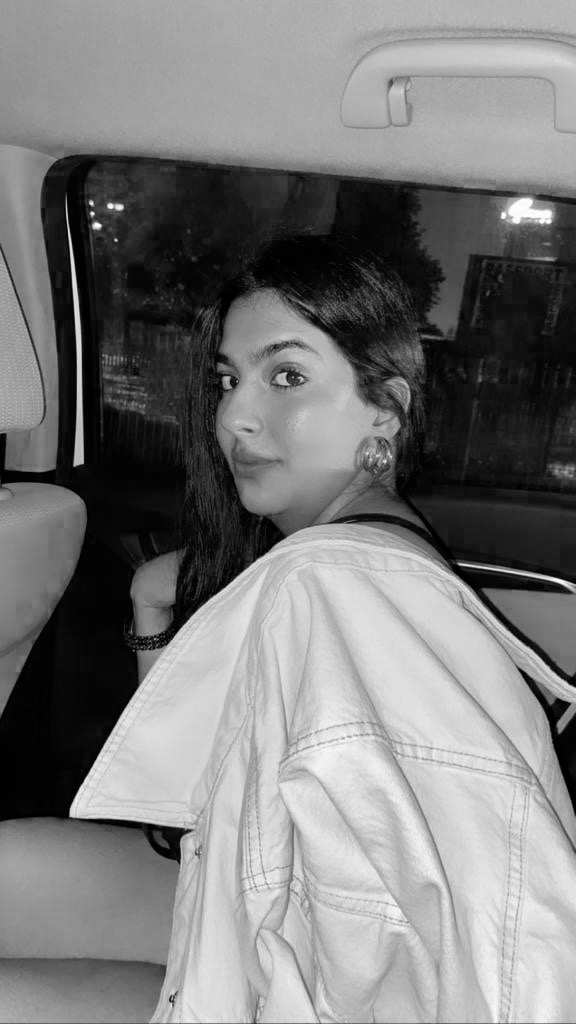
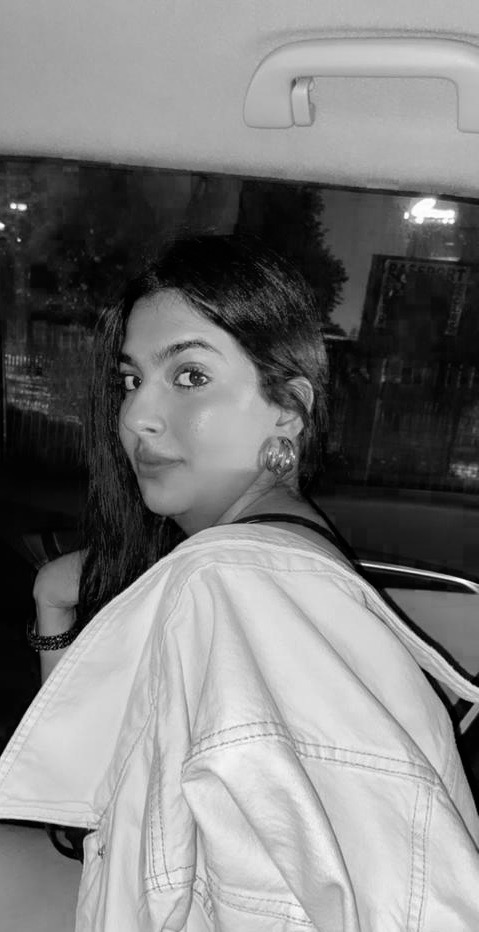
image fix

diff --git a/component/StartupJourney/index.js b/component/StartupJourney/index.js
@@ -78,40 +78,6 @@ function StartupJourney() {
             </p>
           </div>
         </Link>
-        <Link href="/">
-          <div className={styles.imgDiv}>
-            <Image
-              className={styles.imagelogo}
-              src="/assets/prettypurple.png"
-              width="600"
-              height="600"
-            />
-            <h1 style={{ marginBottom: 0, marginTop: 30 }}>Pretty Purple</h1>
-            <p style={{ marginTop: 0 }}>
-              <span
-                style={{
-                  fontWeight: "bold",
-                  color: "#000",
-                  fontSize: "1.6rem",
-                }}
-              >
-                10000+
-              </span>{" "}
-              Readers
-              <br />
-              <span
-                style={{
-                  fontWeight: "bold",
-                  color: "#000",
-                  fontSize: "1.6rem",
-                }}
-              >
-                700{" "}
-              </span>
-              Bloggers
-            </p>
-          </div>
-        </Link>
       </div>
     </div>
   );

diff --git a/component/AboutMe/index.js b/component/AboutMe/index.js
@@ -18,7 +18,7 @@ function AboutMe() {
         </div>
       </div>
       <div className={styles.imgContainer}>
-        <Image src="/assets/drishti.jpeg" height="1020" width="600" />
+        <Image src="/assets/drishti.jpeg" height="932" width="479" />
       </div>
       <div className={styles.rightContainer}>
         {/* <div

diff --git a/component/StartupJourney/styles.module.css b/component/StartupJourney/styles.module.css
@@ -1,6 +1,6 @@
 .flexDiv {
   display: flex;
-  justify-content: space-between;
+  justify-content: space-around;
   align-items: center;
   width: 90%;
   margin-left: auto;
